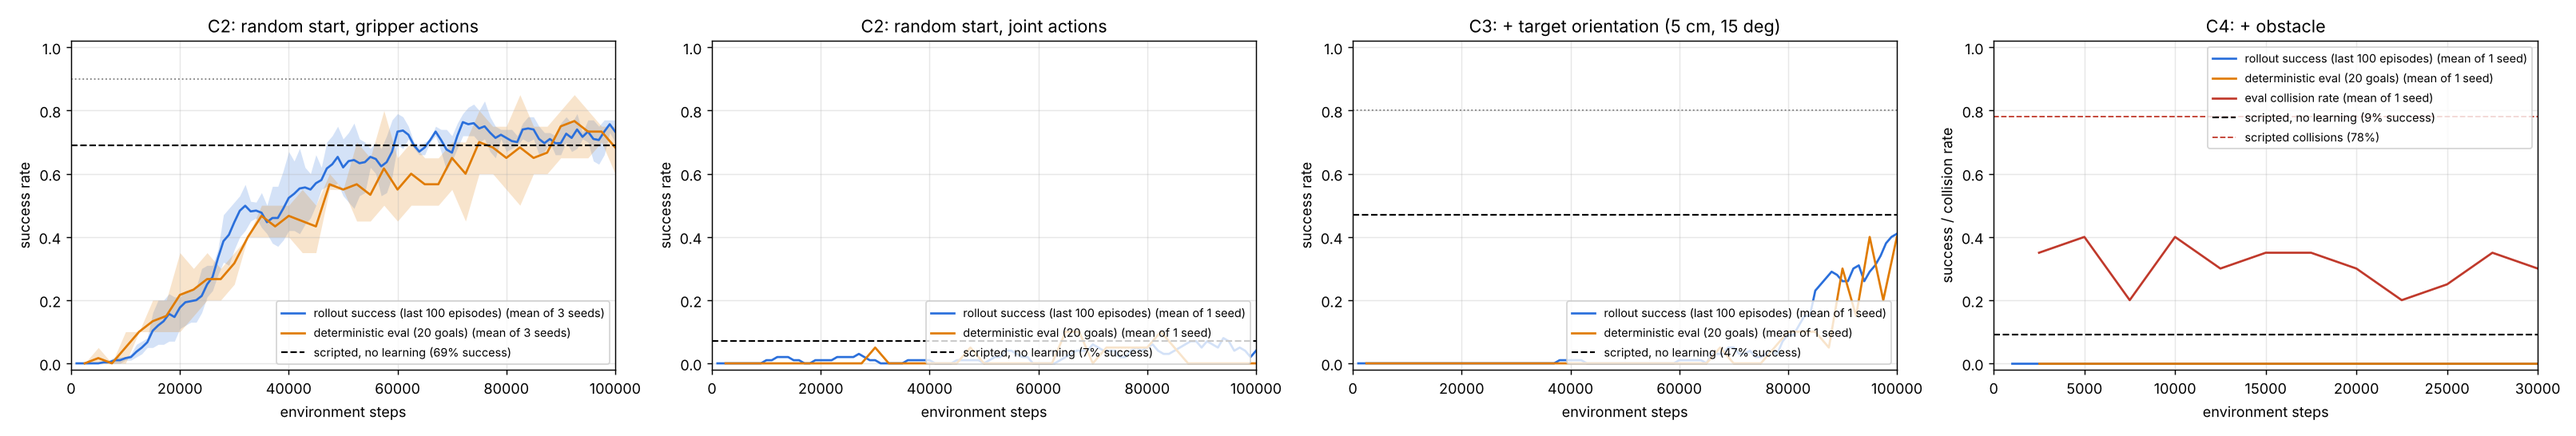
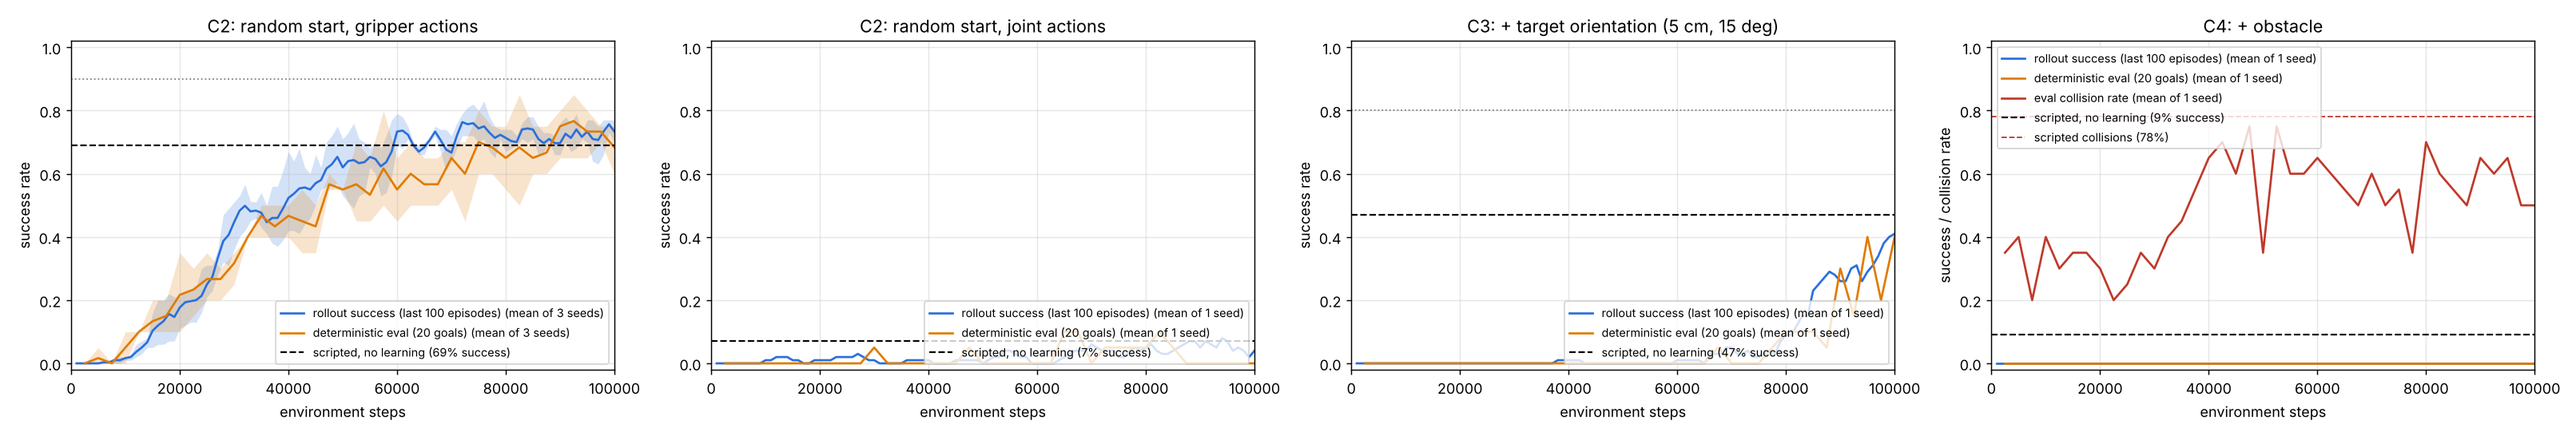
README/SPEC: final Phase C table; C4-lite over 3 seeds; C4 at 100k; stop Phase C
- C4-lite (3 seeds, 100k): RL 91 % success (90/92/91), 4 % collisions. Matches the hand-coded
  detour (84 %) on success: gap within noise (two-proportion z ~ 1.7); collisions 4 % vs 11 %
  (z ~ 2.2, borderline). Far ahead of the straight line (1 %, 99 % collisions).
- C4 fixed start (+ orientation) at 100k: 28 %, 50 % collisions. Full C4 at 100k: 0 %, 51 %.
- Training budget per row; plots regenerated.

Claude-Session: https://claude.ai/code/session_01K64EVu9saz54XYLL2M2596

diff --git a/README.md b/README.md
@@ -83,11 +83,12 @@ recorded with the original Phase B env). Stages are cumulative from C2.
 | C2: random start, gripper actions | 69 % | **77 % / 70 % / 70 %** (mean 72 %; bar 90 %: missed) | 8.6 / 15.1 / 11.8 cm | | 100k (extended: rising at 30k) | 3 | 32-42 min |
 | C2: random start, joint actions | 7 % (37 % with position-only IK) | **1 %** | 38.8 cm | | 100k (extended: rising at 30k) | 1 | 42 min |
 | C3: + target orientation (5 cm and 15 deg) | 47 % | **34 %**, still rising at 100k (bar 80 %: missed) | 15.5 cm | | 100k (0 % and flat at 30k; rerun to match C2's budget) | 1 | 39 min |
-| C4: + one obstacle | 9 % | **0 %** (bar: beat scripted; missed) | 81.4 cm | 78 % / 37 % | **30k only** (not rerun; likely budget-limited, see C4-lite) | 1 | 15 min |
+| C4: + one obstacle | 9 % | **0 %**, flat (bar: beat scripted; missed) | 73.0 cm | 78 % / 51 % | 100k (0 % at 30k; extended as a diagnostic) | 1 | 40 min |
 
 Seeds: 3 for C1 and C2 gripper; 1 for the other stages. Budget: 30k, extended to 100k where the curve was still
-rising at 30k (both C2 runs) or rerun to 100k as a diagnostic (C3). C3 at 30k looked flat at 0 % and only started
-rising after ~70k steps, so **a flat curve at 30k does not mean a stage is unlearnable here**; C4 has only had 30k.
+rising at 30k (both C2 runs) or as a diagnostic (C3, C4). C3 at 30k looked flat at 0 % and only started rising
+after ~70k steps, so **a flat curve at 30k does not mean a stage is unlearnable here**; C4, in contrast, stays at
+0 % all the way to 100k.
 "Mean final distance" is the TCP-to-goal position error. With 100 test episodes a success rate has roughly
 +-5 points of sampling noise.
 
@@ -117,17 +118,18 @@ What each stage changed and showed:
   contact ends the episode with reward -1 / (1 - gamma) = -20, and HER keeps that penalty on relabelled samples
   (the collision flag reaches `compute_reward` through `info` with `copy_info_dict=True`; a test shows that without
   it HER silently turns the crash into reward 0). The straight-line rule collides in 78 % of episodes (9 %
-  success). At 30k steps RL collides less (37 %) but never reaches the goal, so it does not beat the scripted
-  rule. C4 was not rerun at 100k; C4-lite (below) suggests the 30k budget is a large part of the shortfall.
+  success). RL never reaches the goal, at 30k (37 % collisions) or extended to 100k (0 % success, 51 %
+  collisions, no upward trend), so it does not beat the scripted rule. The diagnostics below show which part of C4
+  is hard.
 
 ### Why C4 falls short, and diagnostics
 
 | Diagnostic (1 seed) | Training budget | Scripted straight line | Hand-coded detour | RL (DDPG + HER) |
 |---|---|---|---|---|
-| **C4-lite**: fixed start, position-only goal, 1 obstacle (`ur5e_c4_lite`) | 100k | 1 % success, 99 % collisions | 84 %, 11 % collisions | **90 % success, 4 % collisions**, 4.5 cm |
+| **C4-lite**: fixed start, position-only goal, 1 obstacle (`ur5e_c4_lite`), **3 seeds** | 100k | 1 % success, 99 % collisions | 84 %, 11 % collisions | **91 % success (90 / 92 / 91), 4 % collisions (4 / 1 / 6)**, 4.4-4.8 cm |
 | C3 from the fixed start (`ur5e_c3_fixedstart`) | 30k | 100 % | | **100 %**, 3.2 cm |
-| C4 from the fixed start (`ur5e_c4_fixedstart`) | 30k | 2 % success, 98 % collisions | **77 %**, 18 % collisions | 1 % success, 51 % collisions |
-| C4 (random start) | 30k | 9 %, 78 % collisions | 16 %, 61 % collisions | 0 %, 37 % collisions |
+| C4 from the fixed start (`ur5e_c4_fixedstart`): C4-lite + orientation goal | 100k | 2 % success, 98 % collisions | **77 %**, 18 % collisions | **28 % success, 50 % collisions** (1 % / 51 % at 30k) |
+| C4 (random start + orientation + obstacle) | 100k | 9 %, 78 % collisions | 16 %, 61 % collisions | 0 %, 51 % collisions (0 % / 37 % at 30k) |
 | Stretch: SAC + HER on C4 (`ur5e_c4_sac`) | 30k | 9 %, 78 % collisions | | 0 %, 33 % collisions (DDPG: 0 %, 37 %) |
 | Stretch: 3 obstacles (`ur5e_c4_multi`) | 30k | 3 %, 97 % collisions | 7 %, 71 % collisions | 0 %, 72 % collisions |
 | Stretch: 3 obstacles, fixed start (`ur5e_c4_multi_fixedstart`) | 30k | 1 %, 99 % collisions | 49 %, 37 % collisions | 2 %, 53 % collisions |
@@ -137,15 +139,18 @@ sphere, across, then down; not a learned policy) reaches the goal in 77 % of the
 steps RL collides less than the straight line (51 % vs 98 % from the fixed start) but its final distance stays near
 30 cm, so the lower collision rate may mostly reflect moving less rather than avoiding the sphere.
 
-**C4-lite changes the picture.** With the orientation goal removed, the same method (DDPG + HER, Gaussian noise
-sigma 0.1, sparse reward with the -20 crash penalty) learns to go over the sphere from the fixed start: 90 % success
-and 4 % collisions on the test, beating both the straight line (1 %) and the hand-coded detour (84 %); the GIF below
-shows it lifting over the sphere. It needed the budget: 15 % on the 20-goal checks at 30k, 75 % at 60k, 85-95 %
-from 90k. So the earlier hypothesis that plain Gaussian exploration cannot find the detour is **not supported** in
-this setting (1 seed). The C4 shortfalls are confounded by the 30k budget and the extra orientation goal (and, for
-C4 proper, random starts); none of the 30k obstacle rows has been rerun at 100k. Untested next steps, cheapest
-first: C4 fixed start (with orientation) and C4 at 100k; then, only if those still fail, method changes such as
-demonstrations from the detour rule, a curriculum, or more exploration.
+**What the diagnostics show** (C4-lite 3 seeds; other rows 1 seed). With the orientation goal removed and a fixed
+start (C4-lite), the same method (DDPG + HER, Gaussian noise sigma 0.1, sparse reward with the -20 crash penalty)
+learns to go over the sphere: 91 % success and 4 % collisions on average over 3 seeds (90 / 92 / 91 %). Against
+the hand-coded detour (84 %, 11 % collisions) RL **matches** it on success (gap +7 points, within the test noise:
+two-proportion z ~ 1.7 over 300 vs 100 episodes) and has somewhat fewer collisions (-7 points, z ~ 2.2, borderline);
+against the straight-line rule (1 %, 99 % collisions) the gap is far outside noise. It needs the budget: 15 % on the
+20-goal checks at 30k, 75 % at 60k, 85-95 % from 90k. So plain Gaussian exploration *can* find the detour here.
+Adding the orientation goal back (C4 from the fixed start) drops RL to 28 % at 100k (first successes only after
+~80k steps), below the detour's 77 %; adding random starts as well (full C4) gives 0 % at 100k. **The obstacle
+alone is learnable; the combination with the orientation goal and random starts is what this method and budget
+do not solve.** The SAC and 3-obstacle stretch rows are still 30k only. Method changes that might close the gap
+(demonstrations from the detour rule, a curriculum, reward shaping, more exploration) were not tried.
 
 Learning curves (dashed: the scripted rule on the test episodes; dotted: the bar):
 
@@ -156,20 +161,21 @@ Learning curves (dashed: the scripted rule on the test episodes; dotted: the bar
 |---|---|---|
 | ![c2](results/videos/ur5e_c2_ee_s0.gif) | ![c3](results/videos/ur5e_c3_s0.gif) | ![c3 fixed](results/videos/ur5e_c3_fixedstart_s0.gif) |
 
-C4-lite, scripted straight line (left) vs RL (right), same episodes: the straight line hits the sphere, RL goes
-over it (label red on a collision, green on reaching the goal):
+C4-lite (seed 0), scripted straight line (left) vs RL (right), same episodes: the straight line hits the sphere,
+RL goes over it (label red on a collision, green on reaching the goal):
 
 ![c4-lite side by side](results/videos/ur5e_c4_lite_s0_vs.gif)
 
-C4 at 30k steps side by side (RL misses or collides): [fixed start](results/videos/ur5e_c4_fixedstart_s0_vs.gif),
-[random start](results/videos/ur5e_c4_s0_vs.gif).
+C4 at 30k steps side by side (RL misses or collides; recorded before the 100k extension):
+[fixed start](results/videos/ur5e_c4_fixedstart_s0_vs.gif), [random start](results/videos/ur5e_c4_s0_vs.gif).
 
-**Bottom line for the guide (so far):** the clearest case for RL is C4-lite: from a fixed start, with one obstacle
-and a position goal, RL reaches 90 % with 4 % collisions where the straight-line rule crashes 99 % of the time and
-a hand-written detour gets 84 % (1 seed, 100k steps). With random starts RL only roughly matches the simple rule
-(C2: 72 % vs 69 % over 3 seeds) and is still behind it, though rising, on C3 at 100k (34 % vs 47 %). No stage after
-C1 clears its bar yet, and the 30k obstacle runs (C4 and the stretch rows) are probably budget-limited rather than
-evidence that the method cannot solve them.
+**Bottom line for the guide:** the clearest case for RL is C4-lite: from a fixed start, with one obstacle and a
+position goal, RL reaches 91 % with 4 % collisions over 3 seeds, where the straight-line rule crashes 99 % of the
+time; it matches a hand-written detour (84 %) on success, with somewhat fewer collisions. With random starts RL only
+roughly matches the simple rule (C2: 72 % vs 69 % over 3 seeds) and is still behind it, though rising, on C3 at 100k
+(34 % vs 47 %). Combining the obstacle with the orientation goal (28 % from a fixed start) and random starts (0 %)
+is beyond this method at 100k steps. No stage after C1 clears its kickoff bar. Phase C stops here; any method change
+is a separate decision.
 
 Run Phase C (`watchdog.py` keeps 4 runs going and restarts crashed or stalled ones; `logs/watchdog_status.md`):
 

diff --git a/SPEC.md b/SPEC.md
@@ -75,11 +75,12 @@ Added during Phase C (diagnostics, same light settings, 1 seed): C3 and C4 from 
 (`baseline.py --detour`: up over the spheres, across, down) to show the obstacle task is solvable; `watchdog.py`
 (job queue, restarts crashed / stalled runs). Seeds: 3 for stages that pass their bar, 1 for stages that miss.
 
-Outcome (README "Phase C"): C1 passes (100 %, 3 seeds). C2 gripper: RL 77 / 70 / 70 % (3 seeds, 100k) vs
-scripted 69 %, roughly a match, below the 90 % bar. C3 at 100k: 34 % and still rising (scripted 47 %). C2 joints
-and C4 (30k only) miss their bars. Diagnostic C4-lite (fixed start, position goal, 1 obstacle, 100k): RL 90 %
-success / 4 % collisions vs straight line 1 % / 99 % and hand-coded detour 84 % / 11 %, so the 30k obstacle results
-are likely budget-limited.
+Outcome (README "Phase C"; Phase C stops here, no method changes without the owner's go-ahead): C1 passes
+(100 %, 3 seeds). C2 gripper: RL 77 / 70 / 70 % (3 seeds, 100k) vs scripted 69 %, roughly a match, below the 90 %
+bar. C3 at 100k: 34 %, still rising (scripted 47 %). C2 joints 1 %. C4 at 100k: 0 % (51 % collisions). Diagnostics:
+C4-lite (fixed start, position goal, 1 obstacle, 100k, 3 seeds) RL 91 % / 4 % collisions vs straight line 1 % / 99 %
+and detour 84 % / 11 %: matches the detour on success (gap within noise), far ahead of the straight line; adding
+the orientation goal (C4 fixed start, 100k) drops RL to 28 %.
 
 ## Compute (measured)
 
